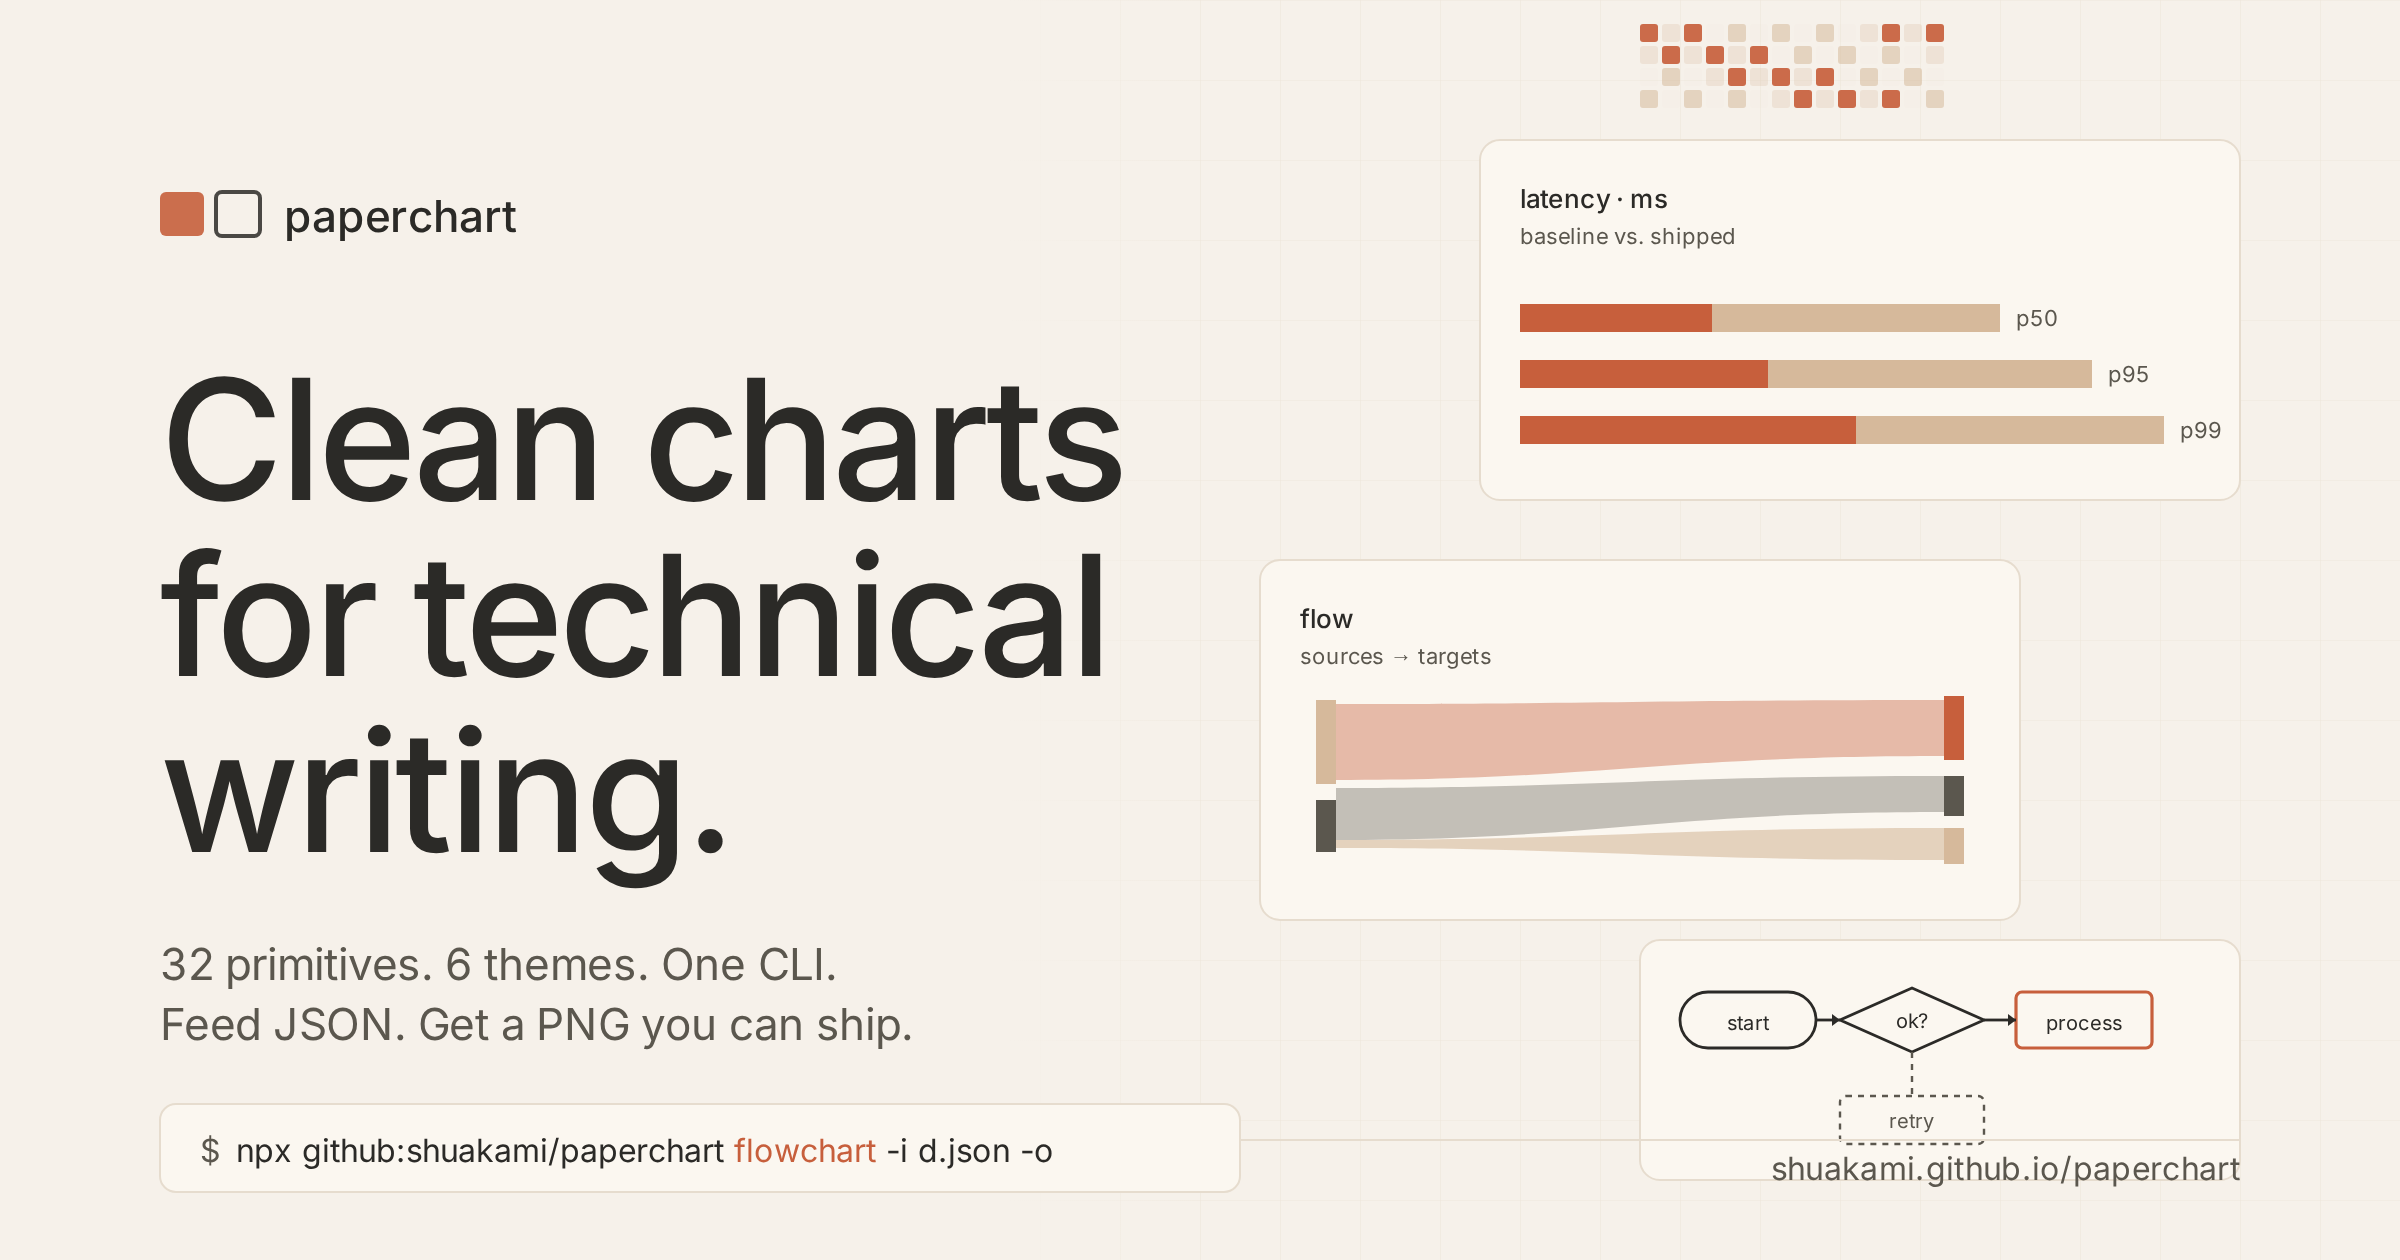
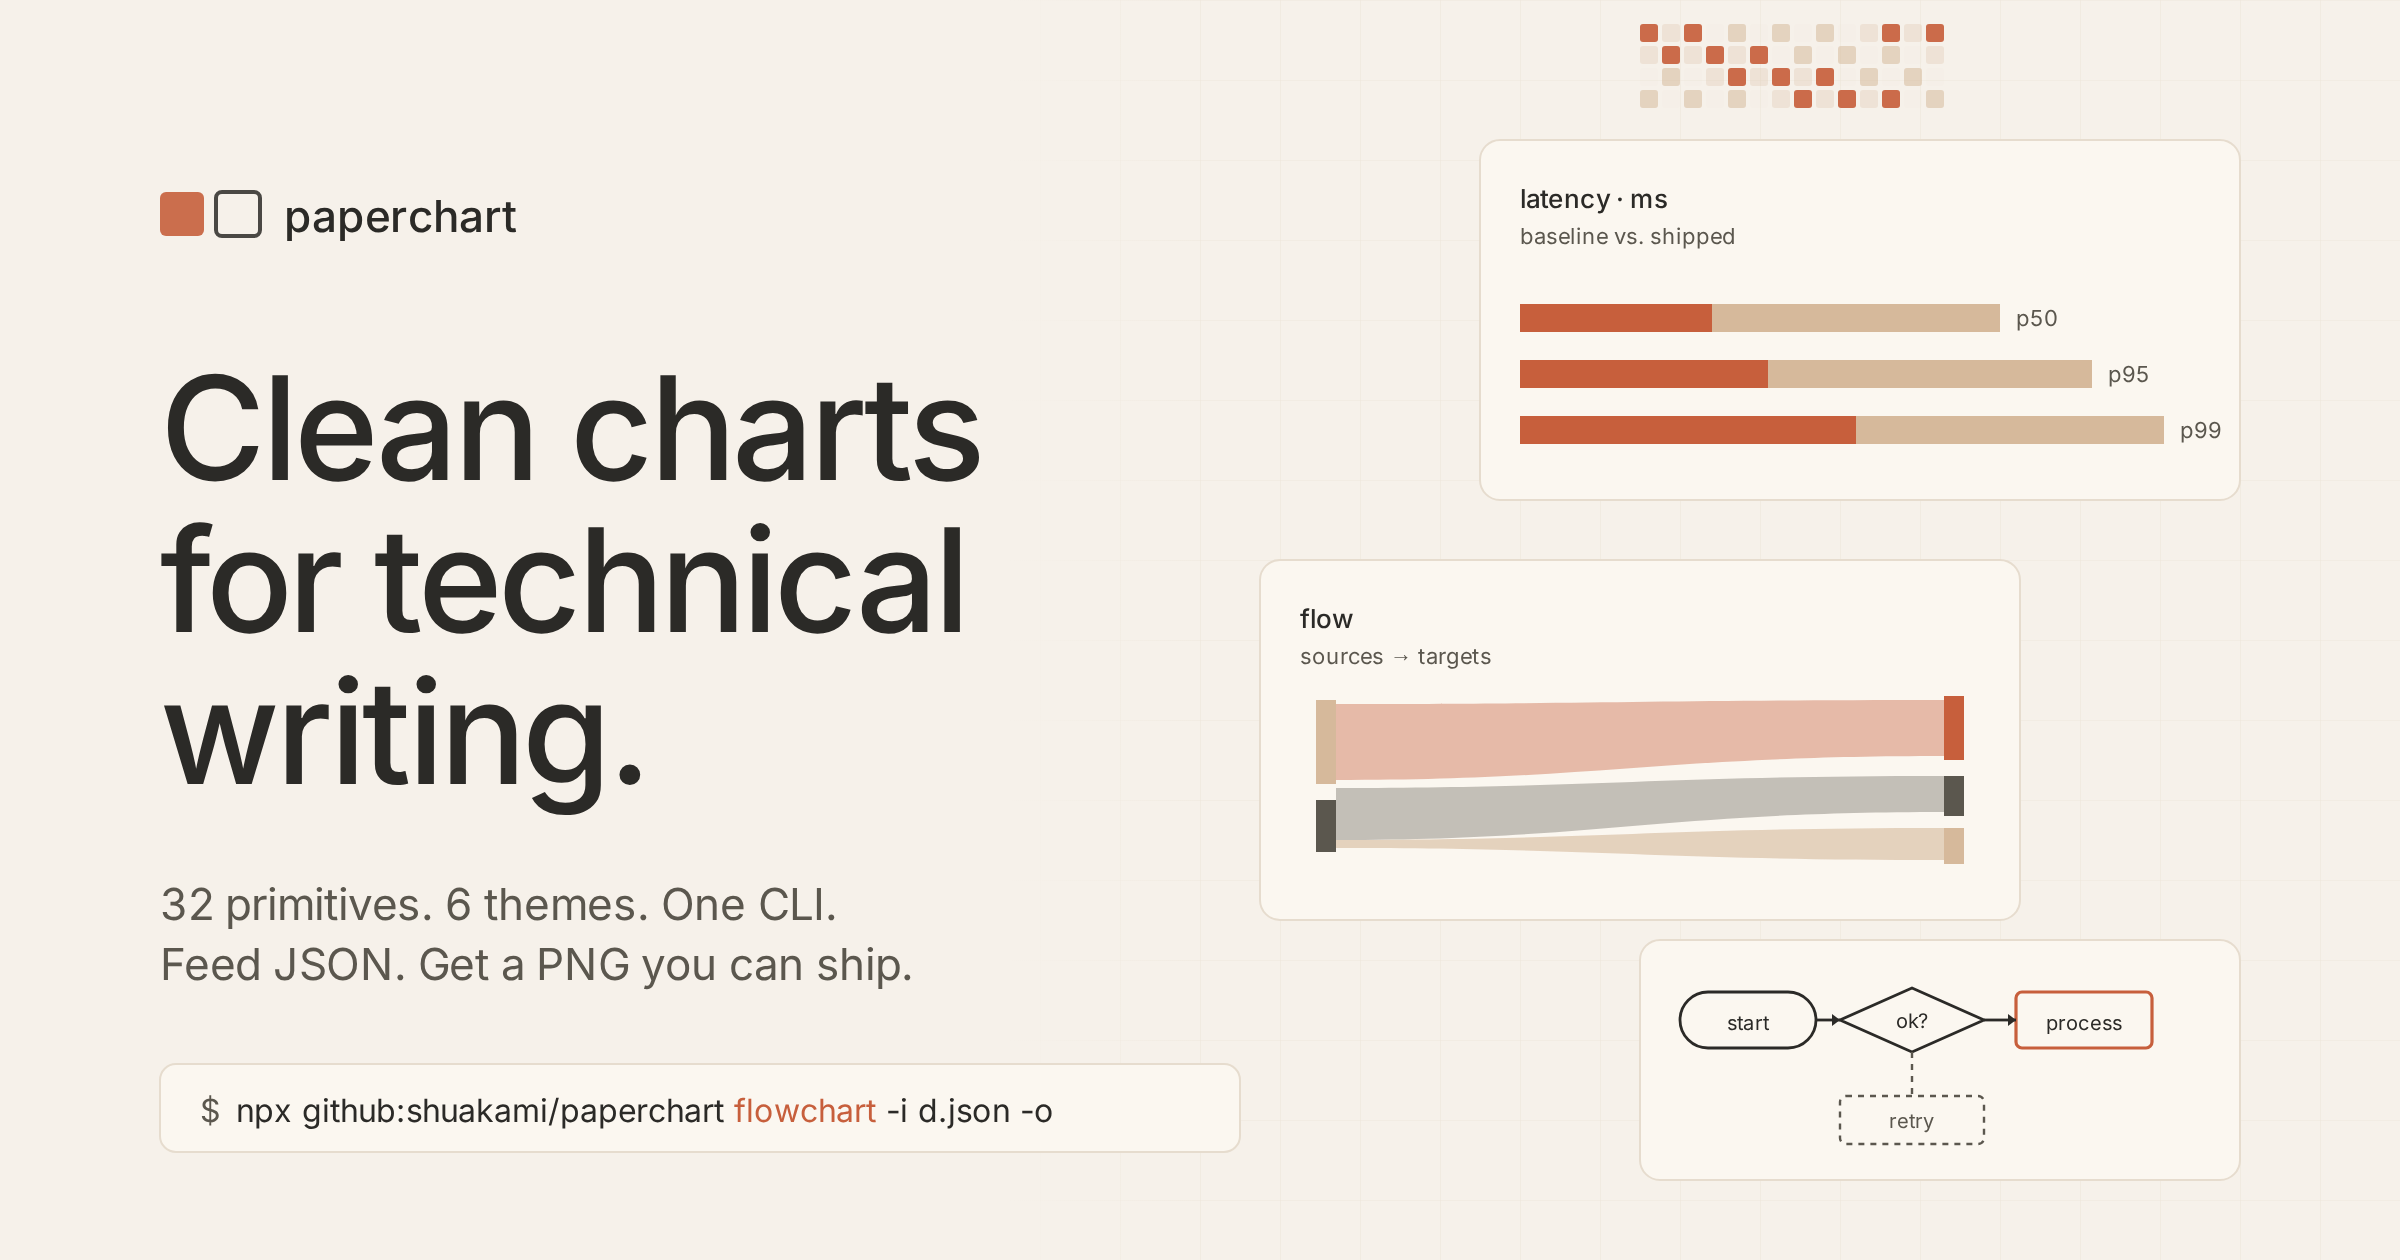
fix(og): drop hairline rule and url footer; shrink hero headline to 72px

Changed region(s): [[0.0625, 0.2786, 0.4688, 0.8357], [0.0625, 0.8667, 0.4375, 0.9286], [0.75, 0.8976, 0.9375, 0.9595]]

diff --git a/src/charts/OgBanner.tsx b/src/charts/OgBanner.tsx
@@ -103,33 +103,33 @@ export default function OgBanner({
         {/* hero headline */}
         <text
           x="0"
-          y="160"
+          y="150"
           fontFamily="Inter, system-ui, sans-serif"
-          fontSize="84"
+          fontSize="72"
           fontWeight={500}
-          letterSpacing="-0.025em"
+          letterSpacing="-0.028em"
           fill={t.ink}
         >
           Clean charts
         </text>
         <text
           x="0"
-          y="248"
+          y="226"
           fontFamily="Inter, system-ui, sans-serif"
-          fontSize="84"
+          fontSize="72"
           fontWeight={500}
-          letterSpacing="-0.025em"
+          letterSpacing="-0.028em"
           fill={t.ink}
         >
           for technical
         </text>
         <text
           x="0"
-          y="336"
+          y="302"
           fontFamily="Inter, system-ui, sans-serif"
-          fontSize="84"
+          fontSize="72"
           fontWeight={500}
-          letterSpacing="-0.025em"
+          letterSpacing="-0.028em"
           fill={t.ink}
         >
           writing.
@@ -138,7 +138,7 @@ export default function OgBanner({
         {/* sub copy */}
         <text
           x="0"
-          y="400"
+          y="370"
           fontFamily="Inter, system-ui, sans-serif"
           fontSize="22"
           fontWeight={400}
@@ -149,7 +149,7 @@ export default function OgBanner({
         </text>
         <text
           x="0"
-          y="430"
+          y="400"
           fontFamily="Inter, system-ui, sans-serif"
           fontSize="22"
           fontWeight={400}
@@ -160,7 +160,7 @@ export default function OgBanner({
         </text>
 
         {/* command pill */}
-        <g transform="translate(0, 462)">
+        <g transform="translate(0, 442)">
           <rect
             x="0"
             y="0"
@@ -186,18 +186,6 @@ export default function OgBanner({
         </g>
       </g>
 
-      {/* footer — domain on the bottom right */}
-      <text
-        x={W - 80}
-        y={H - 40}
-        textAnchor="end"
-        fontFamily="Inter, system-ui, sans-serif"
-        fontSize="16"
-        fill={t.muted}
-        letterSpacing="0.01em"
-      >
-        shuakami.github.io/paperchart
-      </text>
     </svg>
   );
 }
@@ -484,15 +472,6 @@ function RightCollage({ t }: { t: Theme }) {
         )}
       </g>
 
-      {/* faint hairline rule under the cards */}
-      <line
-        x1={560}
-        y1={570}
-        x2={1120}
-        y2={570}
-        stroke={rule}
-        strokeWidth="1"
-      />
     </g>
   );
 }
